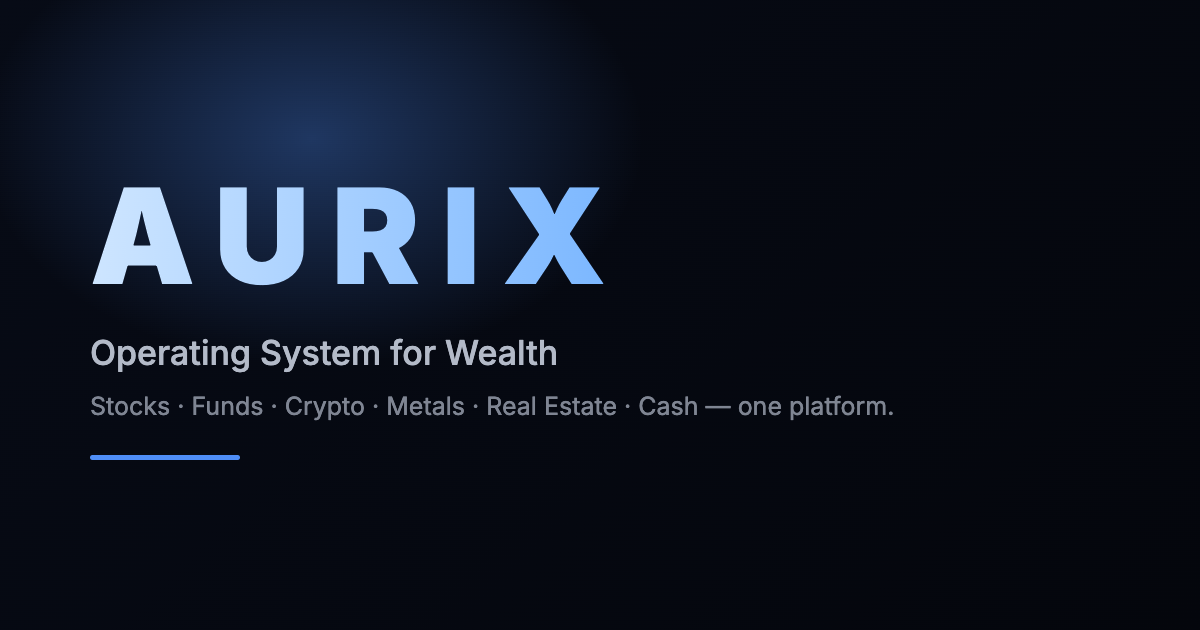
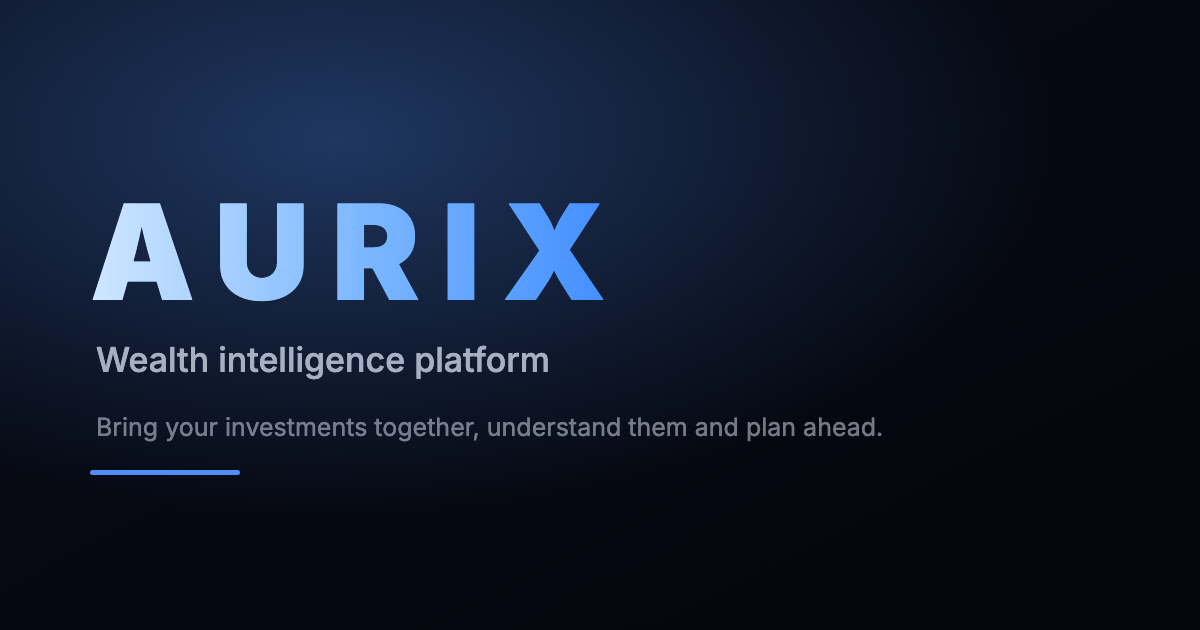
feat(landing): cierre final — copy, CTA Premium, metadatos y fuera «sin tarjeta»
- Retirado «Sin tarjeta para empezar» / «No card needed to start» del hero y de la
  tarjeta Free (la fila vacía de Free se oculta en móvil; en escritorio la subgrid
  sigue alineando intro y CTA con Premium).
- Registro manual explicado una vez (lead de Cómo funciona) + FAQ; fuera how.1.note.
- Workspace: beneficio + cuatro ejemplos en vez de la lista completa.
- Premium: comprensión de la cartera y planificación en lenguaje claro.
- CTA Premium: «Crear cuenta y descubrir Premium» / «Create an account and explore Premium».
- Título, description, OG/Twitter y og-image: fuera «Operating System for Wealth»,
  propuesta de inteligencia patrimonial.
- Sonda: texto retirado, CTA Premium, destinos con idioma, sin demos, metadatos.

Capturas del hero e Intelligence SIN sustituir: no se recibieron los originales.

Changed region(s): [[0.0, 0.0, 0.74, 0.754]]

diff --git a/landing/app.js b/landing/app.js
@@ -119,8 +119,8 @@
 
       'cred.1': 'Una sola plataforma.', 'cred.2': 'Todo tu patrimonio.', 'cred.3': 'Visibilidad completa.',
 
-      'meta.title': 'Aurix — El sistema operativo de tu patrimonio',
-      'meta.desc': 'Controla, entiende y gestiona todo tu patrimonio — acciones, fondos, cripto, inmuebles, metales y liquidez — desde una sola plataforma.'
+      'meta.title': 'Aurix — Inteligencia patrimonial para entender y planificar tu patrimonio',
+      'meta.desc': 'Aurix es una plataforma de inteligencia patrimonial para quienes invierten: reúne acciones, ETFs, fondos, cripto y más, entiende qué está cambiando en tu cartera y planifica con tus propios números.'
     },
     en: {
 
@@ -221,8 +221,8 @@
 
       'cred.1': 'One platform.', 'cred.2': 'All your wealth.', 'cred.3': 'Complete visibility.',
 
-      'meta.title': 'Aurix — The operating system for your wealth',
-      'meta.desc': 'Track, understand and manage your entire wealth — stocks, funds, crypto, real estate, metals and cash — from one platform.'
+      'meta.title': 'Aurix — Wealth intelligence to understand and plan your wealth',
+      'meta.desc': 'Aurix is a wealth intelligence platform for people who invest: bring stocks, ETFs, funds, crypto and more together, understand what is changing in your portfolio and plan with your own numbers.'
     }
   };
 
@@ -238,8 +238,7 @@
       'hero.sub': "Reúne tus inversiones, entiende qué está cambiando y planifica tus próximos pasos. Acciones, ETFs, fondos, cripto y más, en un solo lugar.",
       'cta.start': "Crear cuenta gratis",
       'cta.see': "Explorar Aurix",
-      'cta.premium': "Empezar y descubrir Premium",
-      'hero.note': "Sin tarjeta para empezar.",
+      'cta.premium': "Crear cuenta y descubrir Premium",
       'shot.tag': "Vista de Aurix · datos de ejemplo",
       'alt.dashboard': "Dashboard de Aurix con datos de ejemplo",
       'alt.positions': "Posiciones de una categoría en Aurix, con datos de ejemplo",
@@ -250,16 +249,14 @@
       'how.lead': "Tú registras tus posiciones: Aurix no se conecta a tu banco ni te pide credenciales bancarias.",
       'how.1.t': "Reúne todo tu patrimonio",
       'how.1.d': "Consulta cuánto tienes, cómo se distribuye y cómo evoluciona. Organiza acciones, ETFs, fondos, cripto, metales, inmuebles y liquidez en una sola visión.",
-      'how.1.note': "Añade tus posiciones manualmente y mantén tu información al día.",
       'how.2.t': "Descubre qué merece tu atención",
       'how.2.d': "Intelligence pone tu patrimonio en contexto: dónde se concentra, qué ha cambiado y cómo evoluciona su estructura. Una lectura de tus datos para entender mejor tu cartera.",
       'how.3.t': "Convierte tus números en planes",
-      'how.3.d': "Organiza tu presupuesto, controla cobros pendientes, explora préstamos y proyecta tus objetivos y el interés compuesto. Herramientas y plantillas para planificar con tus propios números.",
-      'how.3.ex': "Plantillas como Presupuesto mensual, Control de cobros, Objetivos financieros o Portfolio inmobiliario; herramientas como Interés compuesto, Simulador de préstamos o Simulador de escenarios.",
+      'how.3.d': "Planifica con tus propios números: organiza tu presupuesto, fija objetivos y comprueba cómo les afectaría un préstamo o el interés compuesto.",
+      'how.3.ex': "Por ejemplo: Presupuesto mensual, Objetivos financieros, Simulador de préstamos e Interés compuesto.",
       'plans.title': "Empieza gratis. Pasa a Premium cuando quieras más.",
       'free.price': "0 €",
       'free.per': "sin coste",
-      'free.sub': "Sin tarjeta para empezar.",
       'free.intro': "Incluye:",
       'free.1': "Todas tus posiciones, sin límite de activos",
       'free.2': "Dashboard con total, reparto y evolución",
@@ -269,8 +266,8 @@
       'price.month.per': "al mes",
       'price.year.note': "O 69,99 € al año, cobrados anualmente: 5,83 € al mes, ahorras un 27 %.",
       'prem.intro': "Todo lo incluido en Free, más:",
-      'prem.1': "Intelligence completa: concentración, estructura y cambios de tu patrimonio",
-      'prem.2': "Todas las herramientas y plantillas de Workspace",
+      'prem.1': "Intelligence completa: entiende dónde se concentra tu patrimonio, qué ha cambiado y cómo evoluciona su estructura",
+      'prem.2': "Todas las herramientas de planificación de Workspace: presupuesto, objetivos, préstamos, interés compuesto y más",
       'prem.3': "Guarda tus planes para retomarlos más tarde",
       'price.terms': "Suscripción renovable. Cancela desde Gestionar mi plan.",
       'faq.title': "Preguntas frecuentes",
@@ -299,8 +296,7 @@
       'hero.sub': "Bring your investments together, understand what is changing and plan your next steps. Stocks, ETFs, funds, crypto and more, in one place.",
       'cta.start': "Create a free account",
       'cta.see': "Explore Aurix",
-      'cta.premium': "Start and discover Premium",
-      'hero.note': "No card needed to start.",
+      'cta.premium': "Create an account and explore Premium",
       'shot.tag': "Aurix view · sample data",
       'alt.dashboard': "Aurix Dashboard with sample data",
       'alt.positions': "Positions in a category in Aurix, with sample data",
@@ -311,16 +307,14 @@
       'how.lead': "You record your positions yourself: Aurix does not connect to your bank or ask for your banking credentials.",
       'how.1.t': "Bring all your wealth together",
       'how.1.d': "See how much you have, how it is distributed and how it evolves. Organise stocks, ETFs, funds, crypto, metals, real estate and cash in a single view.",
-      'how.1.note': "Add your positions manually and keep your information up to date.",
       'how.2.t': "Find out what deserves your attention",
       'how.2.d': "Intelligence puts your wealth in context: where it is concentrated, what has changed and how its structure evolves. A reading of your data to better understand your portfolio.",
       'how.3.t': "Turn your numbers into plans",
-      'how.3.d': "Organise your budget, keep track of pending collections, explore loans and project your goals and compound interest. Tools and templates to plan with your own numbers.",
-      'how.3.ex': "Templates such as Monthly budget, Payment control, Financial goals or Real estate portfolio; tools such as Compound interest, Loan simulator or Scenario builder.",
+      'how.3.d': "Plan with your own numbers: organise your budget, set goals and see how a loan or compound interest would affect them.",
+      'how.3.ex': "For example: Monthly budget, Financial goals, Loan simulator and Compound interest.",
       'plans.title': "Start free. Go Premium when you want more.",
       'free.price': "€0",
       'free.per': "no cost",
-      'free.sub': "No card needed to start.",
       'free.intro': "Includes:",
       'free.1': "All your positions, with no asset limit",
       'free.2': "Dashboard with total, split and evolution",
@@ -330,8 +324,8 @@
       'price.month.per': "per month",
       'price.year.note': "Or €69.99 a year, billed annually: €5.83 a month, you save 27%.",
       'prem.intro': "Everything in Free, plus:",
-      'prem.1': "Full Intelligence: concentration, structure and changes in your wealth",
-      'prem.2': "All Workspace tools and templates",
+      'prem.1': "Full Intelligence: understand where your wealth is concentrated, what has changed and how its structure evolves",
+      'prem.2': "Every Workspace planning tool: budget, goals, loans, compound interest and more",
       'prem.3': "Save your plans to pick them up later",
       'price.terms': "Renewing subscription. Cancel from Manage my plan.",
       'faq.title': "Frequently asked questions",

diff --git a/landing/index.html b/landing/index.html
@@ -11,16 +11,16 @@
   <meta name="viewport" content="width=device-width, initial-scale=1.0, viewport-fit=cover">
   <style>html,body{background:#05070f;margin:0}</style>
 
-  <title>Aurix — Operating System for Wealth</title>
-  <meta name="description" content="Track, understand and manage your entire wealth across stocks, funds, crypto, real estate, metals and cash from one platform.">
+  <title>Aurix — Wealth intelligence to understand and plan your wealth</title>
+  <meta name="description" content="Aurix is a wealth intelligence platform for people who invest: bring stocks, ETFs, funds, crypto and more together, understand what is changing in your portfolio and plan with your own numbers.">
   <link rel="canonical" href="https://aurixsystem.io/">
   <meta name="theme-color" content="#05070f">
 
   <!-- Open Graph -->
   <meta property="og:type" content="website">
   <meta property="og:site_name" content="Aurix">
-  <meta property="og:title" content="Aurix — Operating System for Wealth">
-  <meta property="og:description" content="Track, understand and manage your entire wealth across stocks, funds, crypto, real estate, metals and cash from one platform.">
+  <meta property="og:title" content="Aurix — Wealth intelligence to understand and plan your wealth">
+  <meta property="og:description" content="Aurix is a wealth intelligence platform for people who invest: bring stocks, ETFs, funds, crypto and more together, understand what is changing in your portfolio and plan with your own numbers.">
   <meta property="og:url" content="https://aurixsystem.io/">
   <meta property="og:locale" content="en_US">
   <meta property="og:locale:alternate" content="es_ES">
@@ -30,8 +30,8 @@
   <meta property="og:image:type" content="image/png">
   <!-- Twitter -->
   <meta name="twitter:card" content="summary_large_image">
-  <meta name="twitter:title" content="Aurix — Operating System for Wealth">
-  <meta name="twitter:description" content="Track, understand and manage your entire wealth across stocks, funds, crypto, real estate, metals and cash from one platform.">
+  <meta name="twitter:title" content="Aurix — Wealth intelligence to understand and plan your wealth">
+  <meta name="twitter:description" content="Aurix is a wealth intelligence platform for people who invest: bring stocks, ETFs, funds, crypto and more together, understand what is changing in your portfolio and plan with your own numbers.">
   <meta name="twitter:image" content="https://aurixsystem.io/og-image.png">
 
   <link rel="icon" type="image/svg+xml" href="icon.svg">
@@ -93,7 +93,6 @@
             <a class="btn btn-primary btn-lg" href="https://app.aurixsystem.io/" data-app-link data-launch-cta data-i18n="cta.start">Create a free account</a>
             <a class="btn btn-ghost btn-lg" href="#how" data-i18n="cta.see">Explore Aurix</a>
           </div>
-          <p class="hero-cta-note reveal" data-i18n="hero.note">No card needed to start.</p>
           <span class="hero-cta-note launch-count" id="launchCountdown" hidden></span>
         </div>
 
@@ -121,7 +120,6 @@
           <div class="how-copy">
             <h3 data-i18n="how.1.t">Bring all your wealth together</h3>
             <p data-i18n="how.1.d">See how much you have, how it is distributed and how it evolves. Organise stocks, ETFs, funds, crypto, metals, real estate and cash in a single view.</p>
-            <p class="how-note" data-i18n="how.1.note">Add your positions manually and keep your information up to date.</p>
           </div>
           <figure class="shot-fig"><img src="assets/positions-en.jpg" data-i18n-src="positions" width="1560" height="900" loading="lazy" decoding="async" alt="Positions in a category in Aurix, with sample data" data-i18n-alt="alt.positions"><figcaption class="shot-cap" data-i18n="shot.tag">Aurix view · sample data</figcaption></figure>
         </div>
@@ -135,8 +133,8 @@
         <div class="how-row reveal">
           <div class="how-copy">
             <h3 data-i18n="how.3.t">Turn your numbers into plans</h3>
-            <p data-i18n="how.3.d">Organise your budget, keep track of pending collections, explore loans and project your goals and compound interest. Tools and templates to plan with your own numbers.</p>
-            <p class="how-note" data-i18n="how.3.ex">Templates such as Monthly budget, Payment control, Financial goals or Real estate portfolio; tools such as Compound interest, Loan simulator or Scenario builder.</p>
+            <p data-i18n="how.3.d">Plan with your own numbers: organise your budget, set goals and see how a loan or compound interest would affect them.</p>
+            <p class="how-note" data-i18n="how.3.ex">For example: Monthly budget, Financial goals, Loan simulator and Compound interest.</p>
           </div>
           <figure class="shot-fig"><img src="assets/workspace-en.jpg" data-i18n-src="workspace" width="1600" height="1000" loading="lazy" decoding="async" alt="Aurix monthly budget with sample data" data-i18n-alt="alt.workspace"><figcaption class="shot-cap" data-i18n="shot.tag">Aurix view · sample data</figcaption></figure>
         </div>
@@ -151,7 +149,7 @@
           <article class="plan reveal">
             <h3 class="plan-name">Free</h3>
             <p class="plan-price"><b data-i18n="free.price">€0</b> <span data-i18n="free.per">no cost</span></p>
-            <p class="plan-sub" data-i18n="free.sub">No card needed to start.</p>
+            <p class="plan-sub" aria-hidden="true"></p>
             <p class="plan-intro" data-i18n="free.intro">Includes:</p>
             <ul class="plan-list">
               <li data-i18n="free.1">All your positions, with no asset limit</li>
@@ -168,11 +166,11 @@
             <p class="plan-sub" data-i18n="price.year.note">Or €69.99 a year, billed annually: €5.83 a month, you save 27%.</p>
             <p class="plan-intro" data-i18n="prem.intro">Everything in Free, plus:</p>
             <ul class="plan-list">
-              <li data-i18n="prem.1">Full Intelligence: concentration, structure and changes in your wealth</li>
-              <li data-i18n="prem.2">All Workspace tools and templates</li>
+              <li data-i18n="prem.1">Full Intelligence: understand where your wealth is concentrated, what has changed and how its structure evolves</li>
+              <li data-i18n="prem.2">Every Workspace planning tool: budget, goals, loans, compound interest and more</li>
               <li data-i18n="prem.3">Save your plans to pick them up later</li>
             </ul>
-            <a class="btn btn-primary btn-block" href="https://app.aurixsystem.io/" data-app-link data-launch-cta data-i18n="cta.premium">Start and discover Premium</a>
+            <a class="btn btn-primary btn-block" href="https://app.aurixsystem.io/" data-app-link data-launch-cta data-i18n="cta.premium">Create an account and explore Premium</a>
             <p class="plan-terms" data-i18n="price.terms">Renewing subscription. Cancel from Manage my plan.</p>
           </article>
         </div>

diff --git a/landing/styles.css b/landing/styles.css
@@ -1321,11 +1321,11 @@ a:focus-visible, .btn:focus-visible, button:focus-visible, .lang-btn:focus-visib
 .plan-intro{ margin:6px 0 0; font-size:14px; font-weight:700; color:var(--text); }
 .plan-list{ margin:0; flex:0 0 auto; }
 .plan .btn{ margin-top:auto; }
-.plan-terms:empty{ display:none; }
+.plan-terms:empty, .plan-sub:empty{ display:none; }
 @media (min-width:861px){
   .plan-grid{ grid-template-rows:repeat(7, auto); max-width:960px; margin-left:auto; margin-right:auto; }
   .plan-grid > .plan{ display:grid; grid-row:span 7; grid-template-rows:subgrid; gap:12px; }
-  .plan-terms:empty{ display:block; }
+  .plan-terms:empty, .plan-sub:empty{ display:block; }
 }
 @media (max-width:860px){
   .hero{ padding:100px 0 40px; }
